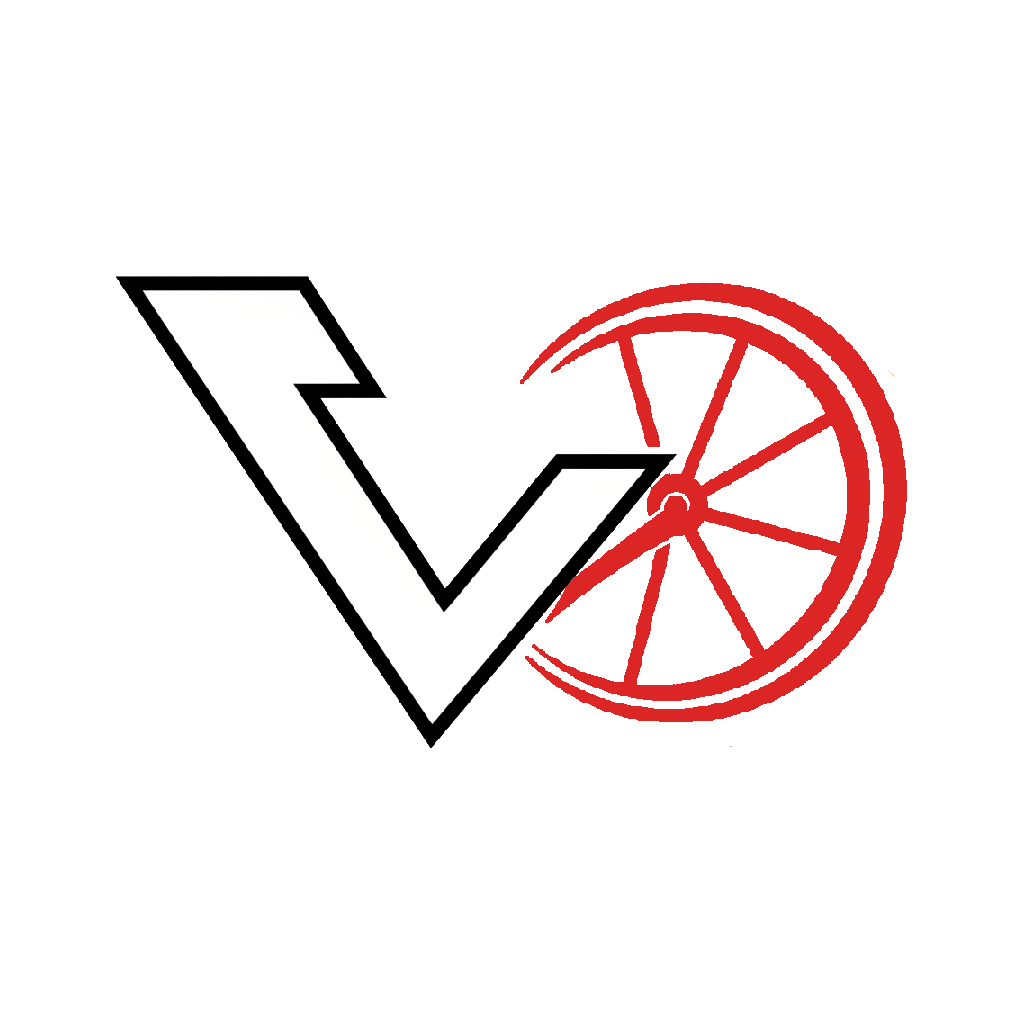
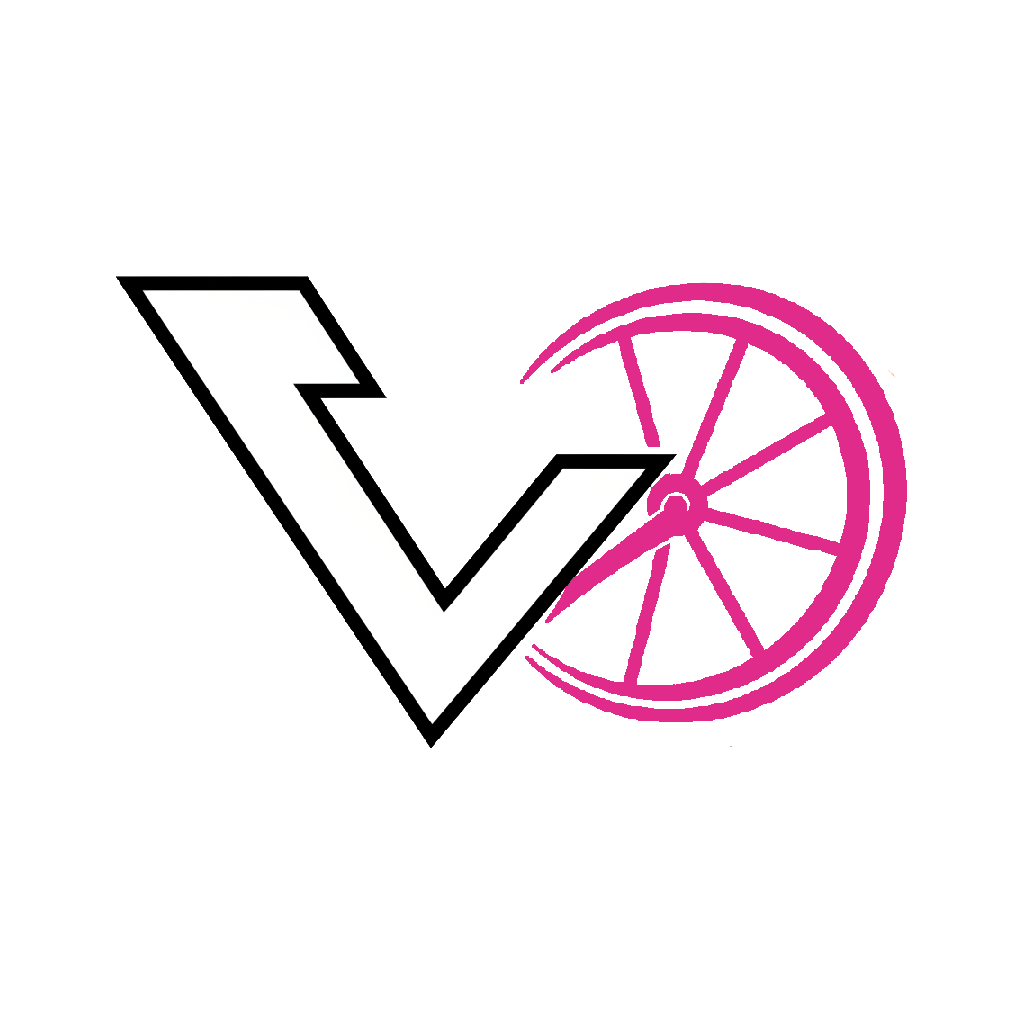
new theme

Changed region(s): [[0.5, 0.25, 0.9062, 0.7188]]

diff --git a/theme.css b/theme.css
@@ -6,12 +6,13 @@
    Lascia SCOMMENTATO solo il blocco :root della palette che vuoi
    usare, e commenta gli altri due (con /* ... * / attorno al blocco).
    Un solo blocco :root deve essere attivo alla volta.
-   ───────────────────────────────────────────────────────────────── */
-
-/* ══════════════════════════════════════════════════════════════════
+   ─────────────────────────────────────────────────────────────────
+/* 
+   ══════════════════════════════════════════════════════════════════
    PALETTE 1 — ROSA (default, usata ~80% dell'anno)
    ══════════════════════════════════════════════════════════════════ 
-:root {
+ */
+   :root {
   --rosa: #E8397D;
   --rosa-dk: #c4275e;
   --rosa-light: rgba(232,57,125,0.12);
@@ -24,7 +25,7 @@
   --font-display: 'Barlow Condensed', sans-serif;
   --font-body: 'Barlow', sans-serif;
 }
-*/
+
 /* ══════════════════════════════════════════════════════════════════
    PALETTE 2 — GIALLO (periodo Tour de France)
    Per attivarla: commenta il blocco ROSA sopra e scommenta questo.
@@ -52,7 +53,7 @@
    Per attivarla: commenta il blocco ROSA sopra e scommenta questo.
    ══════════════════════════════════════════════════════════════════
 */
-
+/*
 :root {
   --rosa: #DC2626;
   --rosa-dk: #b31d1d;
@@ -67,3 +68,4 @@
   --font-body: 'Barlow', sans-serif;
 }
 
+*/
